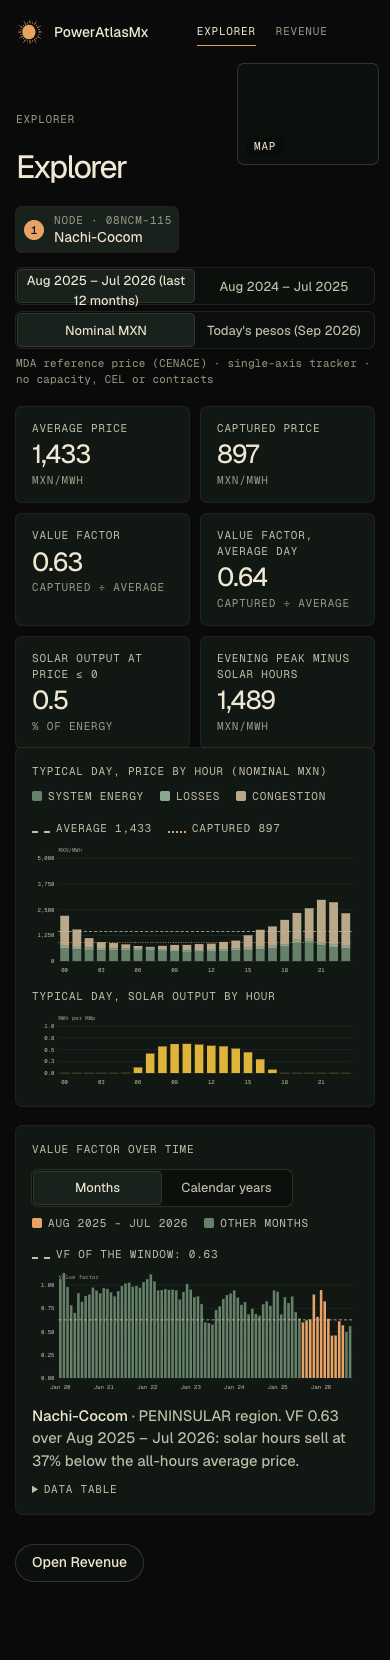
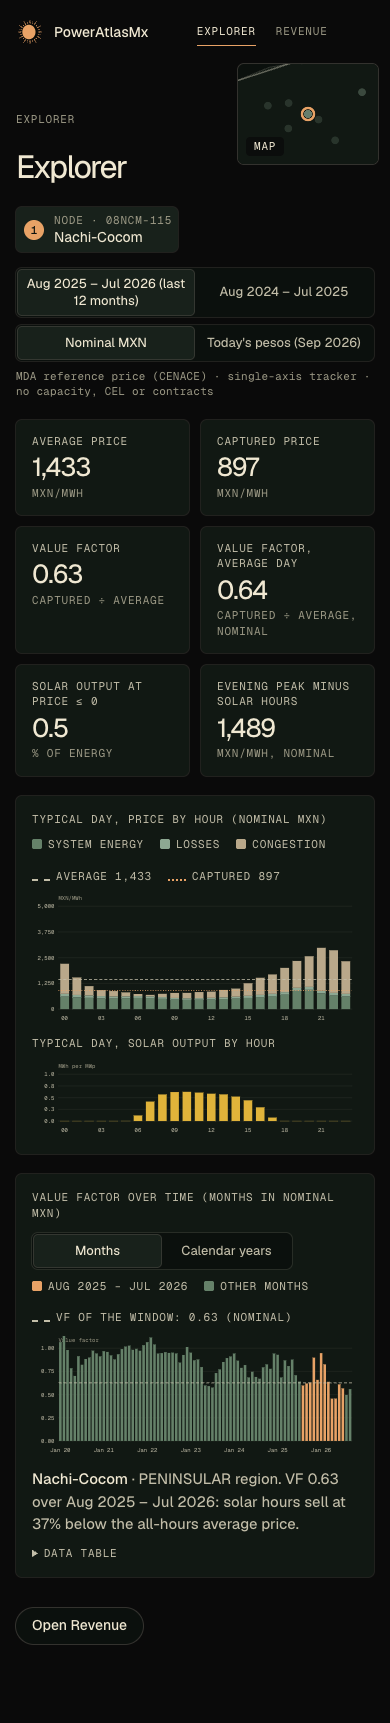
v2: 390 layout fixes

diff --git a/web/v2/assets/css/explorer.css b/web/v2/assets/css/explorer.css
@@ -13,7 +13,7 @@
 .tile strong { font-size: 32px; font-weight: 450; letter-spacing: -.04em; line-height: 1.1; }
 .tile .u { color: var(--ink-3); }
 .xp-cols { display: grid; grid-template-columns: minmax(0, 1fr) minmax(0, 1fr); gap: 20px; }
-.xp-card { background: var(--surface); border-radius: var(--radius); box-shadow: var(--ring); padding: 16px; display: grid; gap: 10px; align-content: start; }
+.xp-card { min-width: 0; grid-template-columns: minmax(0, 1fr); background: var(--surface); border-radius: var(--radius); box-shadow: var(--ring); padding: 16px; display: grid; gap: 10px; align-content: start; }
 .xp-card h2 { margin: 0; color: var(--ink-2); font-weight: 400; }
 .xp-vhead { display: flex; gap: 12px; justify-content: space-between; align-items: center; flex-wrap: wrap; }
 .xp-vhead .seg { width: 260px; }
@@ -33,8 +33,9 @@
 .xp-text { margin: 0; color: var(--ink-2); }
 .xp-text b { color: var(--ink); font-weight: 500; }
 details summary { cursor: pointer; color: var(--ink-2); }
-.tbl { max-height: 320px; overflow: auto; margin-top: 8px; }
+.tbl { max-height: 320px; max-width: 100%; overflow: auto; margin-top: 8px; }
 .tbl table { border-collapse: collapse; width: 100%; font-size: 13px; }
+@media (max-width: 760px) { .tbl th, .tbl td { padding: 4px 6px; font-size: 12px; } .tbl table { min-width: 420px; } }
 .tbl th, .tbl td { padding: 4px 8px; text-align: left; border-bottom: 1px solid var(--hairline); }
 .tbl .n { text-align: right; font-variant-numeric: tabular-nums; }
 @media (min-width: 1000px) { .xp-top { max-width: calc(100% - 372px); } }
@@ -44,3 +45,6 @@ details summary { cursor: pointer; color: var(--ink-2); }
 
 .xp-warn { margin: 0 0 12px; padding: 10px 14px; border-radius: var(--radius); background: var(--raised); box-shadow: 0 0 0 1px var(--accent); color: var(--ink); }
 .xp-warn[hidden] { display: none; }
+
+.xp-ctl .seg button { height: auto; min-height: 32px; padding: 6px 8px; line-height: 1.25; }
+.tiles { margin-bottom: 20px; }
